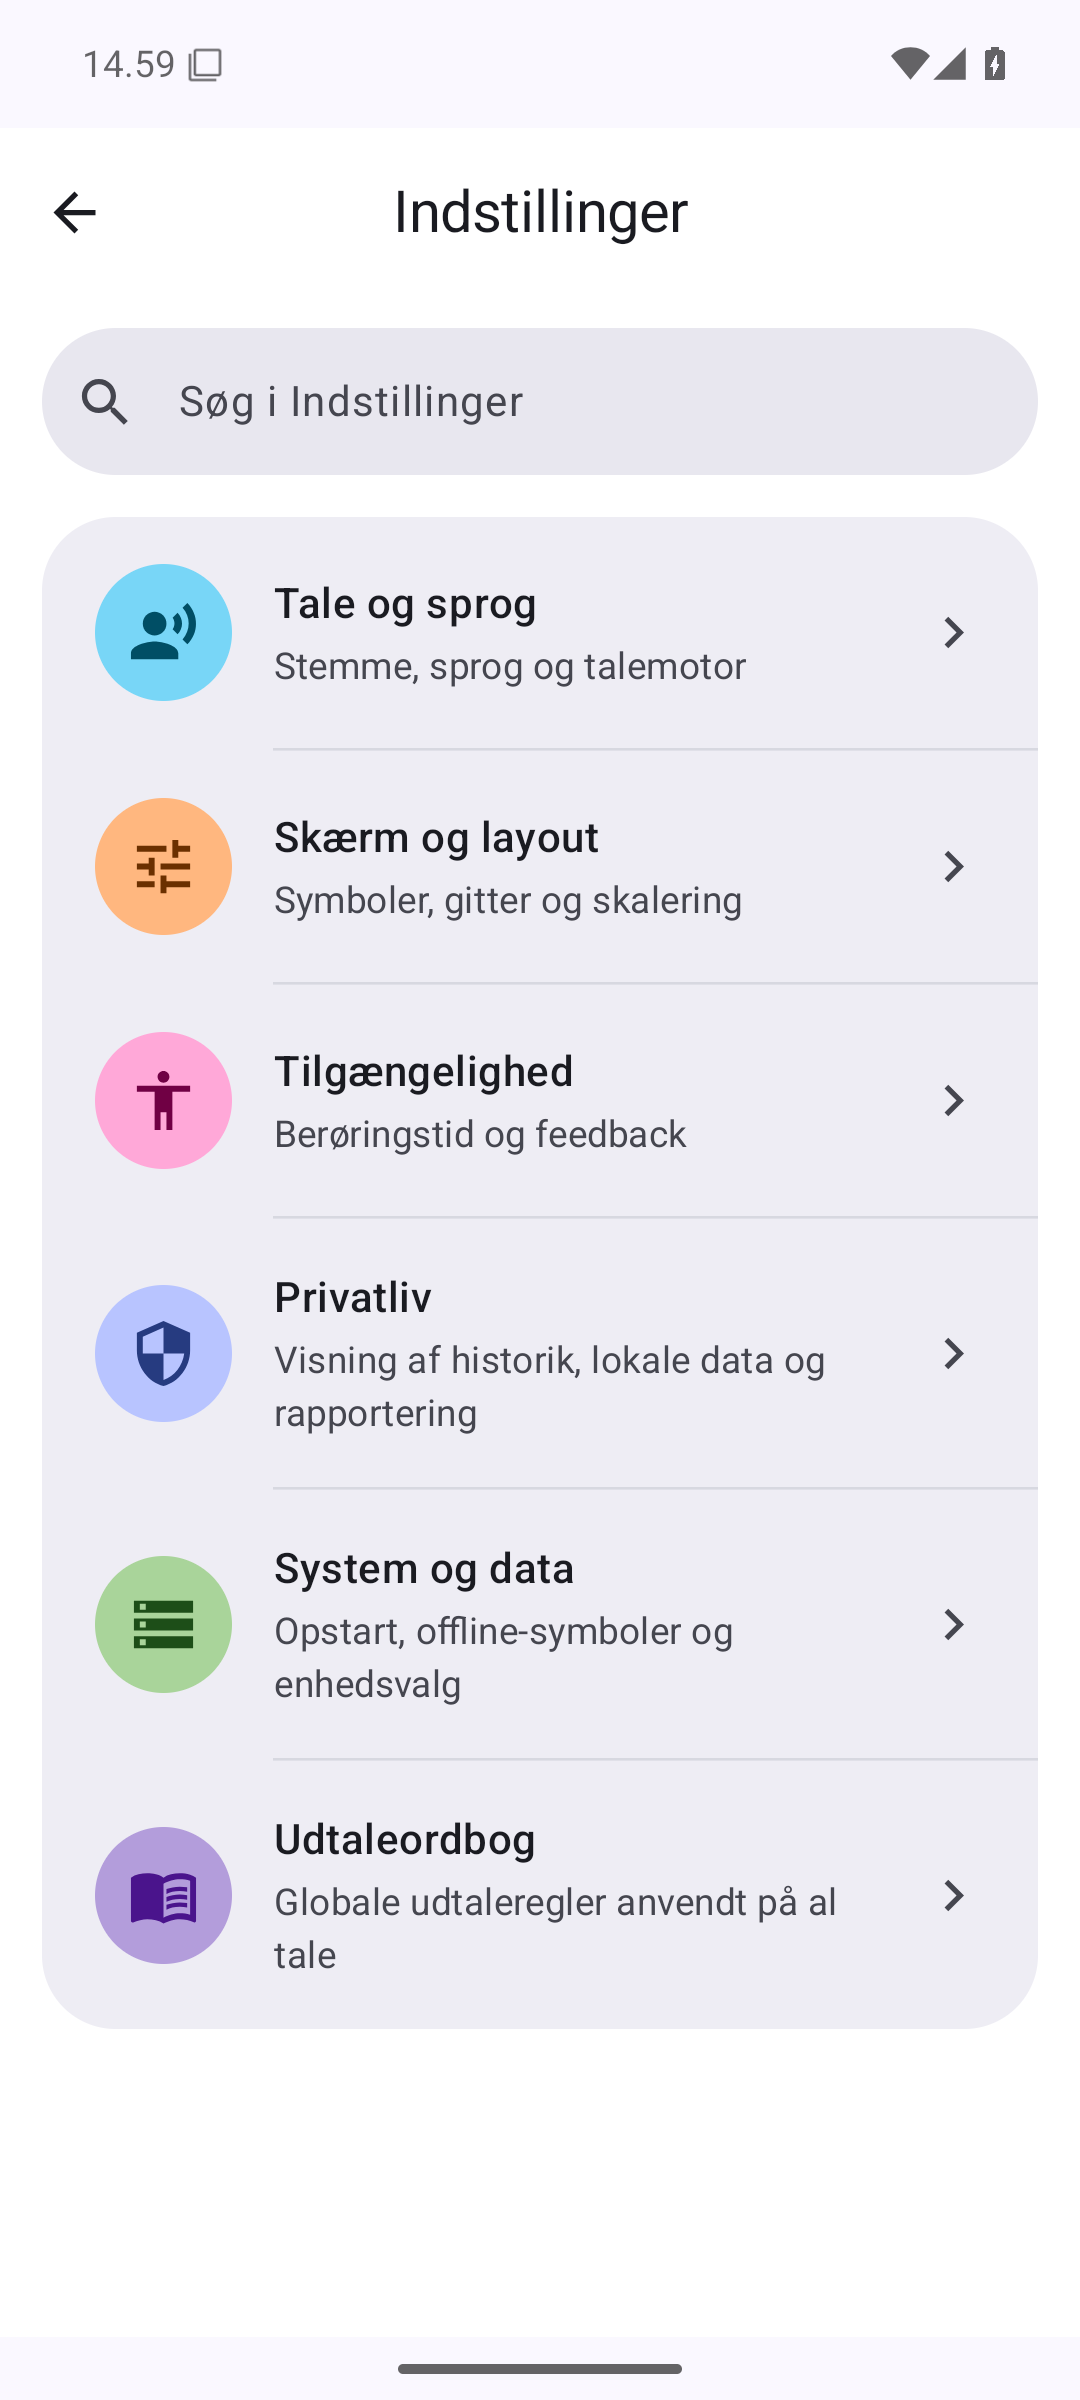
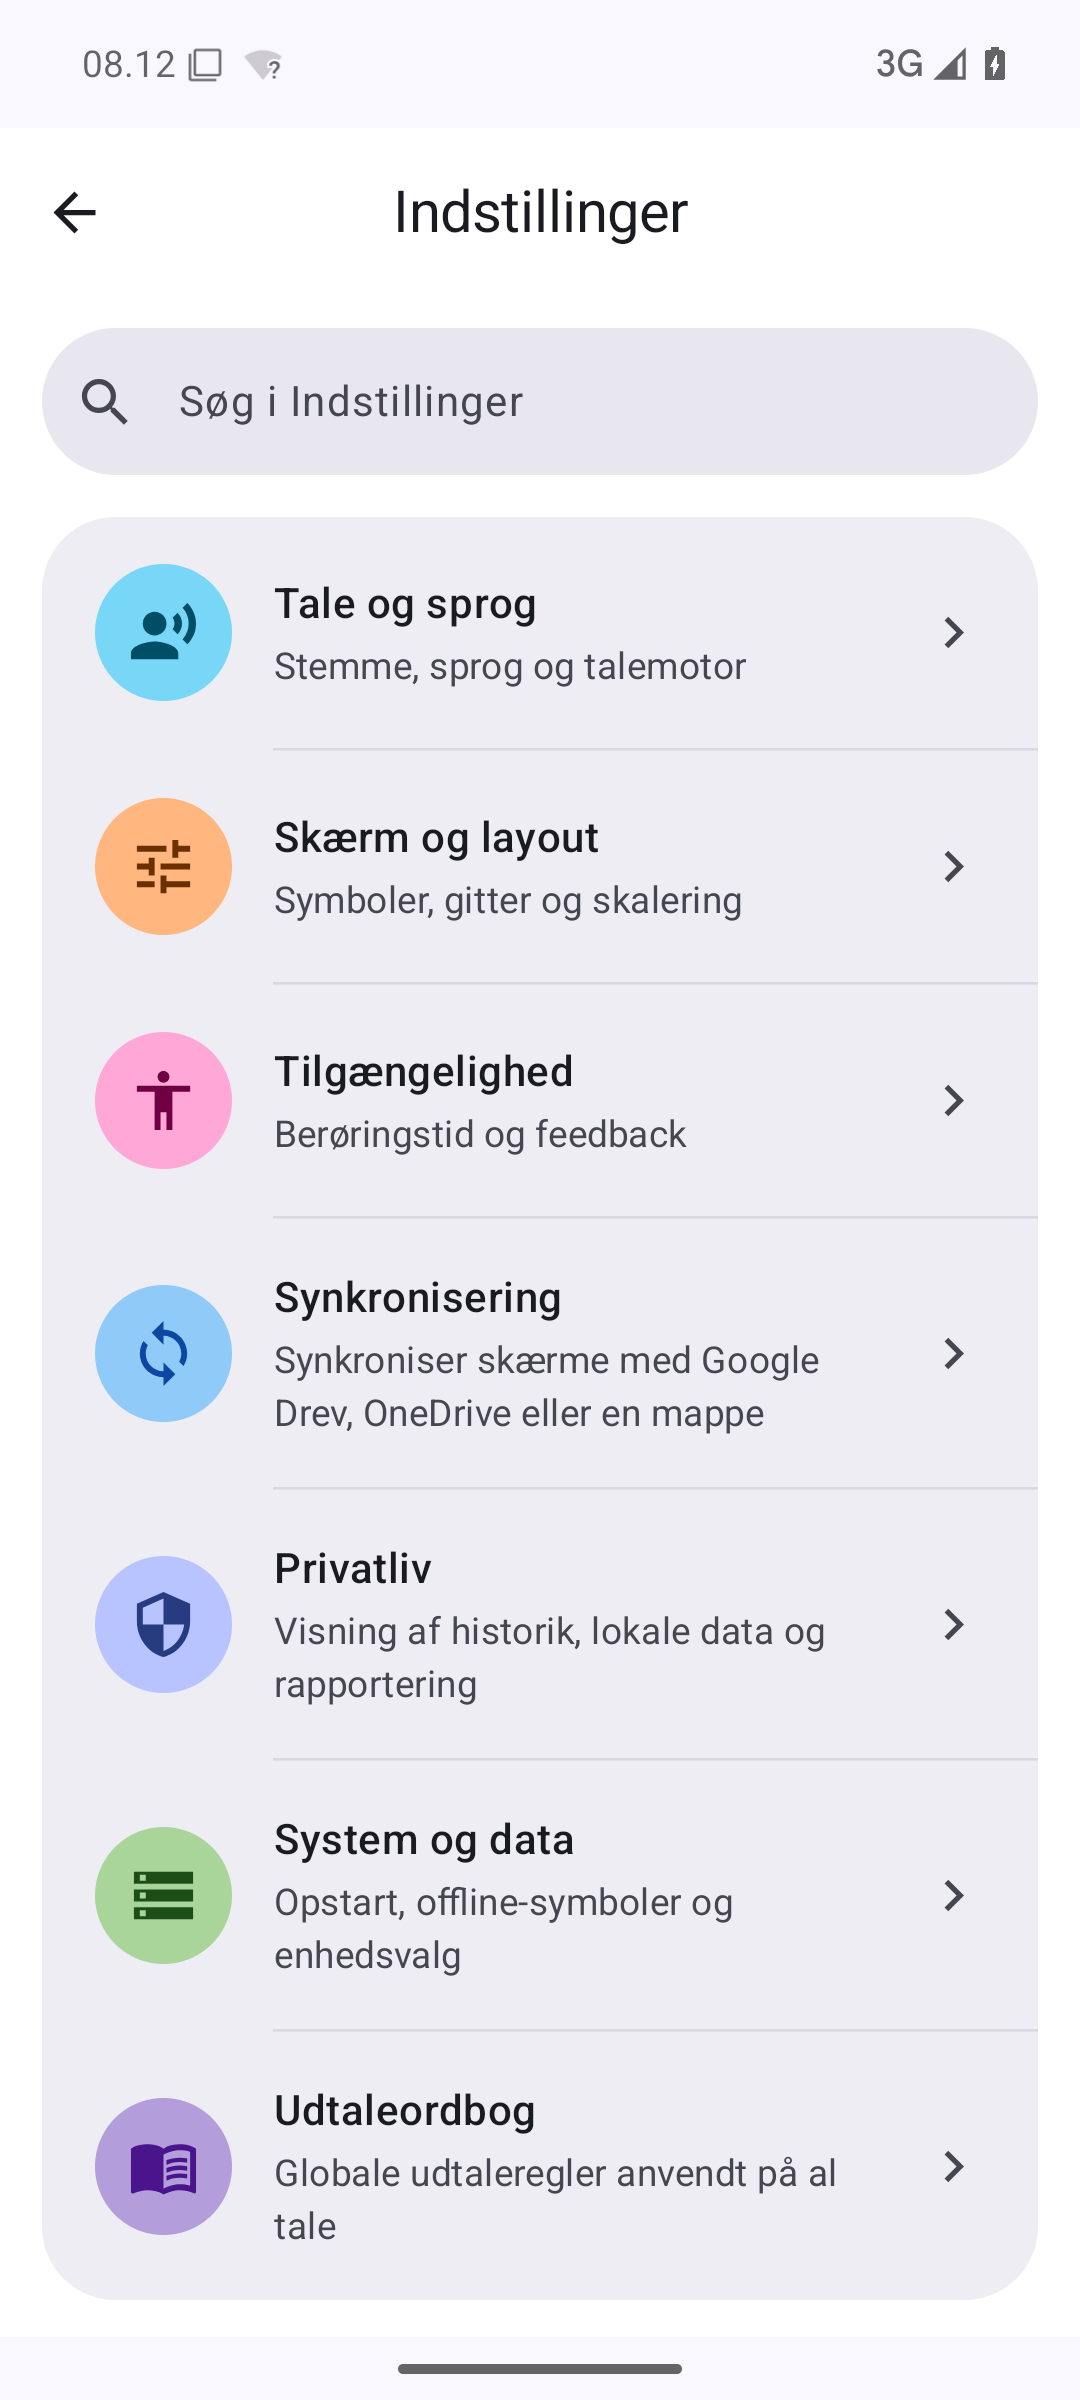
docs: update the Danish manuals for Wingmate 1.10.0
Describe screen sync, the full-screen Android Screens layout, and voice-specific expression buttons, and replace the Android screenshots those sections use.

diff --git a/docs/MANUAL.md b/docs/MANUAL.md
@@ -4,7 +4,7 @@ Wingmate er en gratis app, der kan tale for dig. Den er lavet til at følge med 
 
 Manualen findes i to udgaver. Vælg den, der passer til din enhed:
 
-- **[Android](MANUAL-android.md)** – telefoner og tablets med Android. Wingmate 1.9.0 fra Google Play.
-- **[iPhone og iPad](MANUAL-ios.md)** – Wingmate 1.9.1 fra TestFlight.
+- **[Android](MANUAL-android.md)** – telefoner og tablets med Android. Wingmate 1.10.0 fra Google Play.
+- **[iPhone og iPad](MANUAL-ios.md)** – Wingmate 1.10.0 fra TestFlight.
 
 Manualerne er til dig, der bruger Wingmate, og til familie, hjælpere, lærere og terapeuter, der hjælper med at sætte den op.
